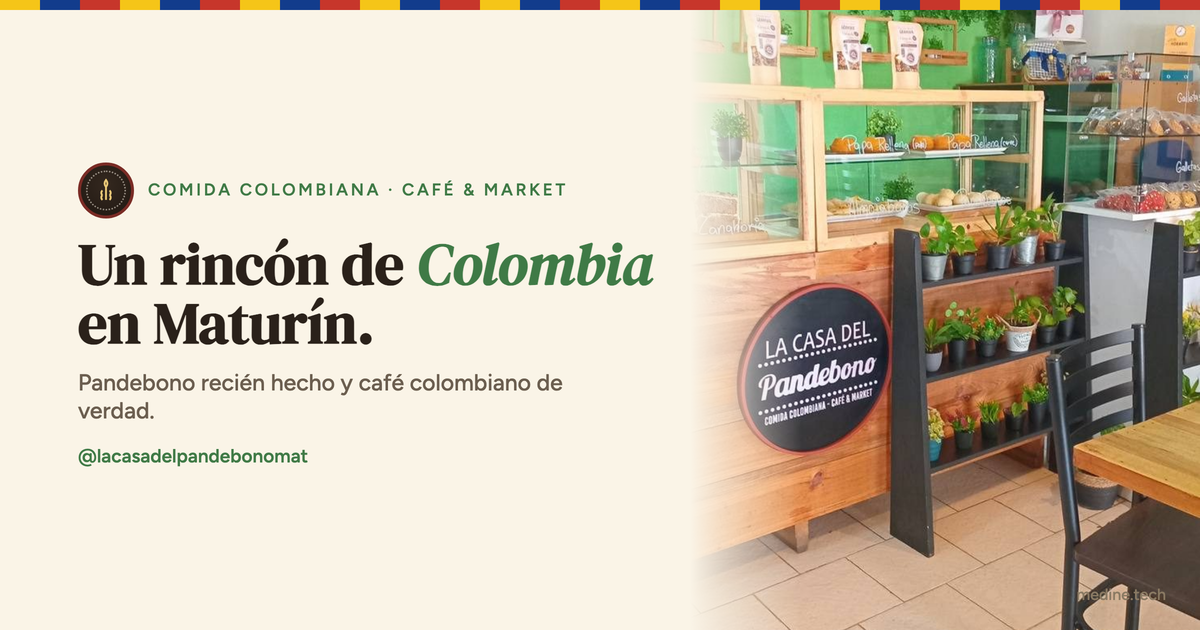
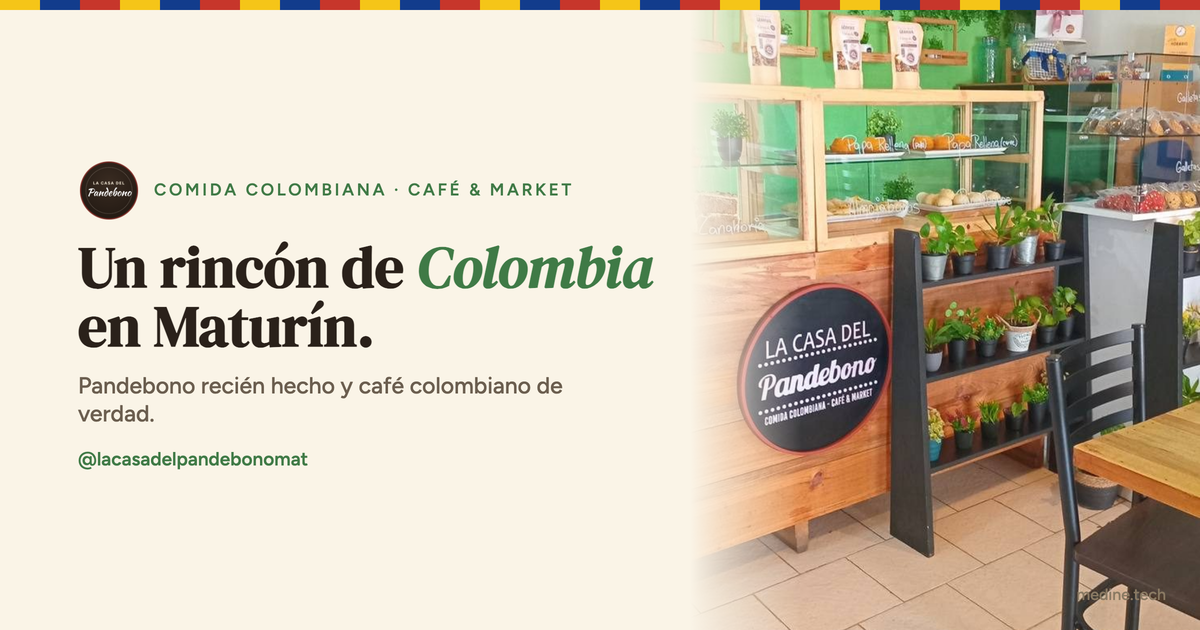
feat(la-casa-del-pandebono): emblema real recreado (LA CASA DEL · Pandebono)
Reemplaza el símbolo abstracto por el logo de la marca recreado como imagen
(assets/logo-badge.png, fondo transparente) en nav, hero, footer y tarjeta OG.
Sin 'Café & Market' en el emblema y 'Pandebono' ajustado para caber en el círculo.

Changed region(s): [[0.0617, 0.3921, 0.555, 0.754], [0.0617, 0.2413, 0.4625, 0.3619]]

diff --git a/la-casa-del-pandebono/index.html b/la-casa-del-pandebono/index.html
@@ -61,6 +61,10 @@ img{max-width:100%; display:block}
   box-shadow:0 4px 12px -4px rgba(0,0,0,.4)}
 .emblem::before{content:""; position:absolute; inset:4px; border-radius:50%; border:1px dotted rgba(245,236,222,.55)}
 .emblem svg{width:24px; height:24px}
+.logo-badge{display:block;flex:none;object-fit:contain}
+.nav-badge{width:46px;height:46px}
+.badge-tag .tag-badge{width:34px;height:34px;object-fit:contain}
+.foot-badge{width:66px;height:66px;margin:0 auto 1rem}
 
 /* ===== Buttons ===== */
 .btn{display:inline-flex; align-items:center; gap:.5rem; font-family:var(--f); font-weight:600; font-size:.94rem; padding:.85rem 1.35rem; border-radius:100px; cursor:pointer; border:0; transition:transform .15s, box-shadow .2s, background .2s; position:relative}
@@ -254,9 +258,7 @@ footer::before{content:""; position:absolute; inset:0; opacity:.14; pointer-even
 <header class="nav">
   <div class="wrap nav-in">
     <a href="#top" class="brand">
-      <span class="emblem" aria-hidden="true">
-        <svg viewBox="0 0 24 24" fill="none" stroke="#e9c877" stroke-width="1.6"><path d="M12 3c-1.6 2-1.6 4 0 6 1.6-2 1.6-4 0-6z"/><path d="M12 9v11M9 12c-1.4 1-1.4 3 0 4M15 12c1.4 1 1.4 3 0 4M9 16c-1.4 1-1.4 3 0 4M15 16c1.4 1 1.4 3 0 4"/></svg>
-      </span>
+      <img src="assets/logo-badge.png" alt="La Casa del Pandebono" class="logo-badge nav-badge">
       <span class="name">La Casa del Pandebono<small>Comida colombiana · Café &amp; Market</small></span>
     </a>
     <button class="burger" aria-label="Abrir menú" aria-expanded="false"><svg viewBox="0 0 24 24" fill="none" stroke="currentColor" stroke-width="2"><path d="M3 6h18M3 12h18M3 18h18"/></svg></button>
@@ -299,7 +301,7 @@ footer::before{content:""; position:absolute; inset:0; opacity:.14; pointer-even
         <path d="M60 118 C54 100 68 92 60 74 C55 58 68 52 62 34"/>
       </svg>
       <span class="badge-tag">
-        <span class="emblem"><svg viewBox="0 0 24 24" fill="none" stroke="#e9c877" stroke-width="1.6"><path d="M12 3c-1.6 2-1.6 4 0 6 1.6-2 1.6-4 0-6z"/><path d="M12 9v11M9 12c-1.4 1-1.4 3 0 4M15 12c1.4 1 1.4 3 0 4"/></svg></span>
+        <img src="assets/logo-badge.png" alt="" class="logo-badge tag-badge">
         Recién horneado, todos los días
       </span>
     </div>
@@ -506,7 +508,7 @@ footer::before{content:""; position:absolute; inset:0; opacity:.14; pointer-even
 <!-- FOOTER -->
 <footer>
   <div class="wrap foot-in">
-    <span class="emblem"><svg viewBox="0 0 24 24" fill="none" stroke="#e9c877" stroke-width="1.5"><path d="M12 3c-1.6 2-1.6 4 0 6 1.6-2 1.6-4 0-6z"/><path d="M12 9v11M9 12c-1.4 1-1.4 3 0 4M15 12c1.4 1 1.4 3 0 4M9 16c-1.4 1-1.4 3 0 4M15 16c1.4 1 1.4 3 0 4"/></svg></span>
+    <img src="assets/logo-badge.png" alt="La Casa del Pandebono" class="logo-badge foot-badge">
     <div class="foot-name">La Casa del Pandebono</div>
     <div class="foot-line">Comida colombiana, hecha en familia.</div>
     <nav class="foot-links">

diff --git a/la-casa-del-pandebono/preview.source.html b/la-casa-del-pandebono/preview.source.html
@@ -28,7 +28,7 @@
     <div class="tri"></div>
     <div class="left">
       <div class="brandline">
-        <span class="emblem"><svg viewBox="0 0 24 24" fill="none" stroke="#e9c877" stroke-width="1.6"><path d="M12 3c-1.6 2-1.6 4 0 6 1.6-2 1.6-4 0-6z"/><path d="M12 9v11M9 12c-1.4 1-1.4 3 0 4M15 12c1.4 1 1.4 3 0 4M9 16c-1.4 1-1.4 3 0 4M15 16c1.4 1 1.4 3 0 4"/></svg></span>
+        <img src="./assets/logo-badge.png" alt="" style="width:62px;height:62px;flex:none">
         <span class="kicker">Comida colombiana · Café &amp; Market</span>
       </div>
       <h1>Un rincón de <em>Colombia</em><br>en Maturín.</h1>
